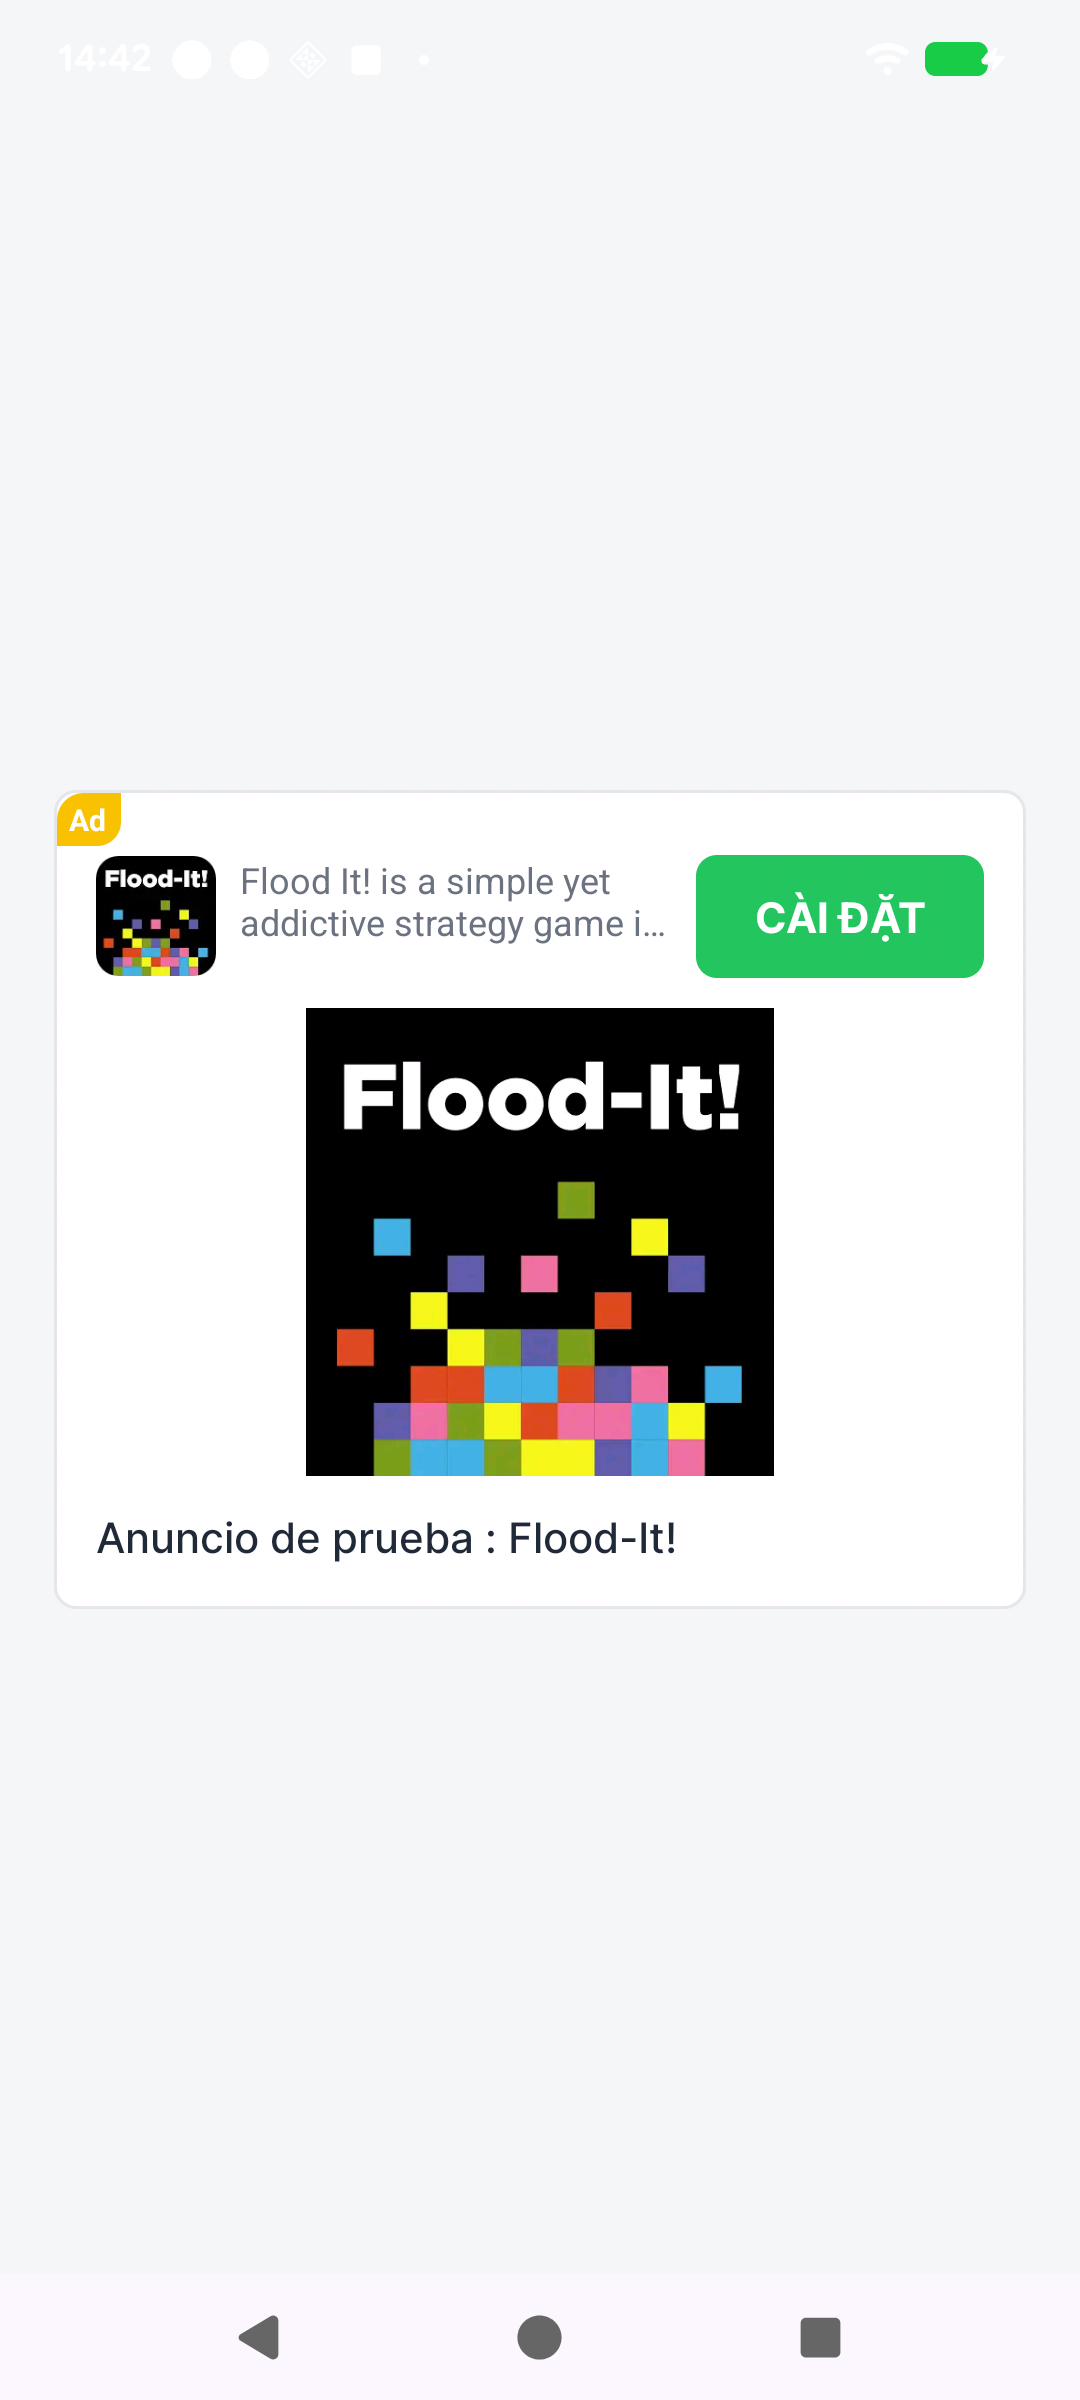
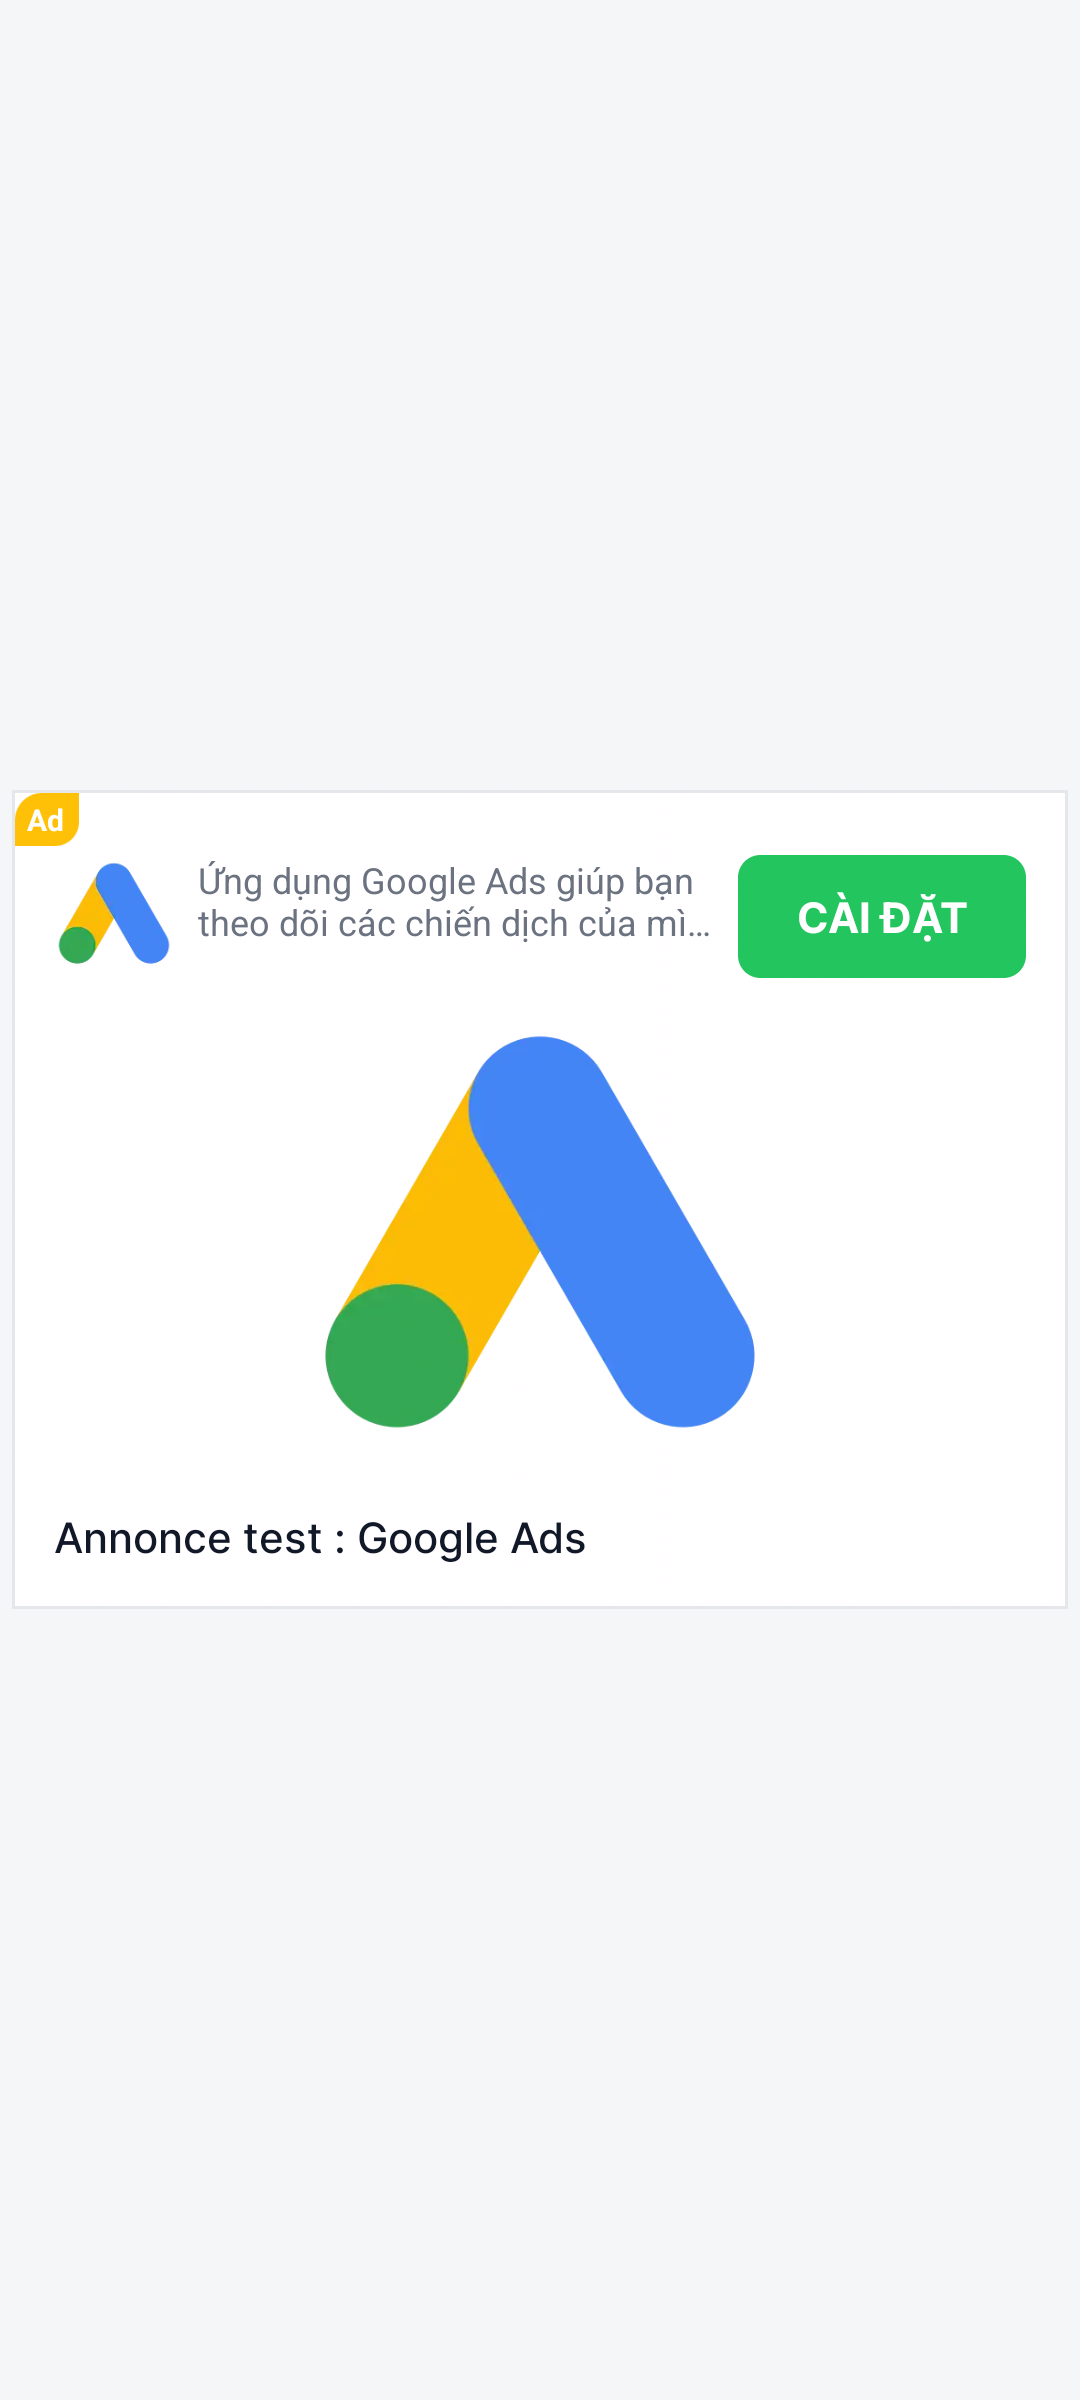
docs(ads): refresh native gallery including picture-in-picture

diff --git a/docs/firebase-ads-guide/firebase_ads_config_guide.html b/docs/firebase-ads-guide/firebase_ads_config_guide.html
@@ -1221,13 +1221,14 @@ fun provideOnBoardingV3UiCustomizer(
     <section id="gallery">
       <p class="section-kicker">Visual reference</p>
       <h2>Native UI gallery</h2>
-      <div class="config-keys field"><code>native_template_size</code></div>
-      <p>Các ảnh dưới đây được chụp bằng <code>adb shell screencap</code> từ debug preview Activity, sử dụng AdMob test native id <code>ca-app-pub-3940256099942544/2247696110</code>.</p>
+      <div class="config-keys field"><code>native_template_size</code><code>is_native_collapsible</code><code>native_expand_template</code><code>pip_anchor_mode</code></div>
+      <p>Các ảnh dưới đây được chụp lại bằng <code>capture_native_gallery.ps1</code> qua <code>adb shell screencap</code> từ dev preview Activity, sử dụng AdMob test native id <code>ca-app-pub-3940256099942544/2247696110</code>. Gallery bao phủ toàn bộ template built-in, hai giao diện native collapsible và Picture in Picture.</p>
       <div class="grid">
         <figure><img src="native-screenshots/small.png" alt="small"><figcaption><code>small</code></figcaption></figure>
         <figure><img src="native-screenshots/small_cta_top.png" alt="small_cta_top"><figcaption><code>small_cta_top</code></figcaption></figure>
         <figure><img src="native-screenshots/small_cta_bottom.png" alt="small_cta_bottom"><figcaption><code>small_cta_bottom</code></figcaption></figure>
         <figure><img src="native-screenshots/small_cta_right.png" alt="small_cta_right"><figcaption><code>small_cta_right</code></figcaption></figure>
+        <figure><img src="native-screenshots/small_banner_cta_right.png" alt="small_banner_cta_right"><figcaption><code>small_banner_cta_right</code></figcaption></figure>
         <figure><img src="native-screenshots/mini_cta_right.png" alt="mini_cta_right"><figcaption><code>mini_cta_right</code></figcaption></figure>
         <figure><img src="native-screenshots/small_long.png" alt="small_long"><figcaption><code>small_long</code></figcaption></figure>
         <figure><img src="native-screenshots/small_for_popup.png" alt="small_for_popup"><figcaption><code>small_for_popup</code></figcaption></figure>
@@ -1246,9 +1247,12 @@ fun provideOnBoardingV3UiCustomizer(
         <figure><img src="native-screenshots/full_interstitial_v1.png" alt="full_interstitial_v1"><figcaption><code>full_interstitial_v1</code></figcaption></figure>
         <figure><img src="native-screenshots/full_interstitial_v2.png" alt="full_interstitial_v2"><figcaption><code>full_interstitial_v2</code></figcaption></figure>
         <figure><img src="native-screenshots/full_interstitial_v3.png" alt="full_interstitial_v3"><figcaption><code>full_interstitial_v3</code></figcaption></figure>
+        <figure><img src="native-screenshots/medium_collapsible_cta_bottom.png" alt="medium_cta_bottom with native_expand_v1"><figcaption><code>medium_cta_bottom</code> + <code>native_expand_v1</code></figcaption></figure>
+        <figure><img src="native-screenshots/medium_collapsible_cta_bottom_v2.png" alt="medium_cta_bottom with native_expand_v2"><figcaption><code>medium_cta_bottom</code> + <code>native_expand_v2</code></figcaption></figure>
+        <figure><img src="native-screenshots/native_pip.png" alt="native_pip picture in picture"><figcaption><code>native_pip</code> · Picture in Picture</figcaption></figure>
       </div>
       <div class="note">
-        <p><strong>Custom native:</strong> key không nằm trong danh sách built-in sẽ thành <code>NativeTemplateSize.CustomKey</code> và được chuyển sang <code>CustomNativeProvider.getInstance().getCustomNativeAds()</code>. Muốn dùng custom key phải implement provider tương ứng; tài liệu này chỉ minh họa các template built-in.</p>
+        <p><strong>Custom native:</strong> key không nằm trong danh sách built-in sẽ thành <code>NativeTemplateSize.CustomKey</code> và được chuyển sang <code>CustomNativeProvider.getInstance().getCustomNativeAds()</code>. Riêng <code>native_pip</code> được render bằng <code>NativePictureInPicture</code> theo luồng PIP chuyên dụng đã mô tả ở phần Native Picture in Picture.</p>
       </div>
     </section>
     </article>
